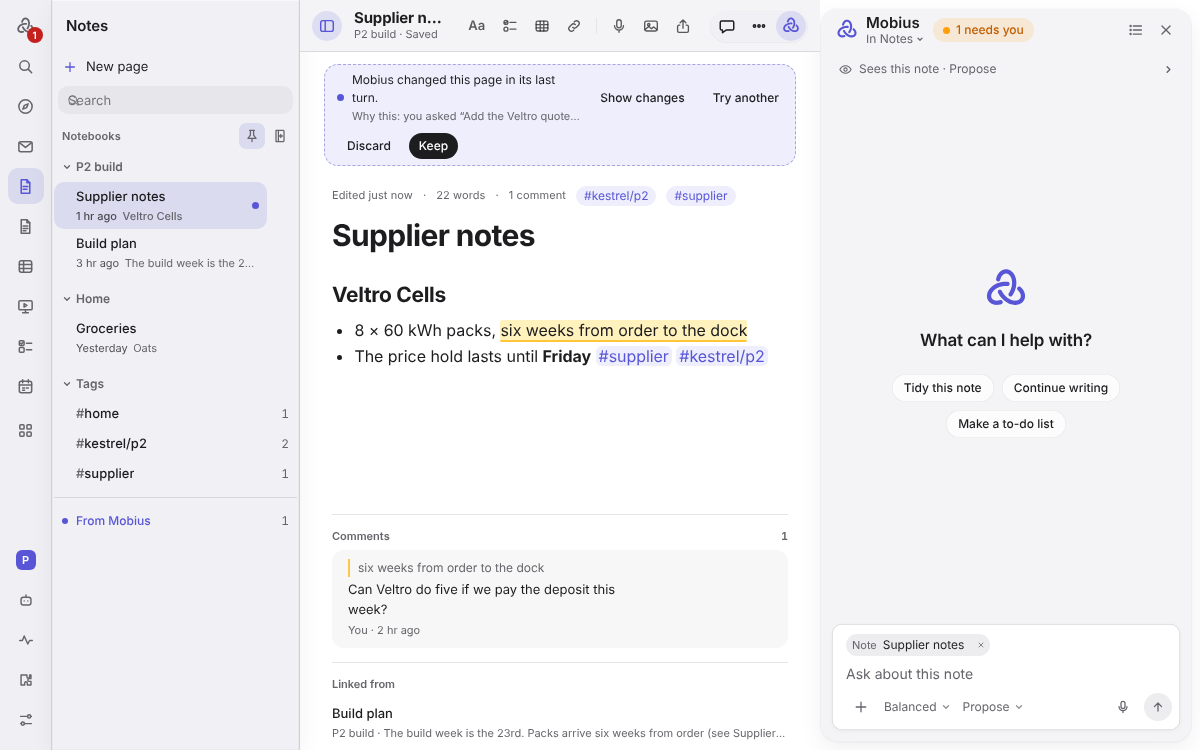
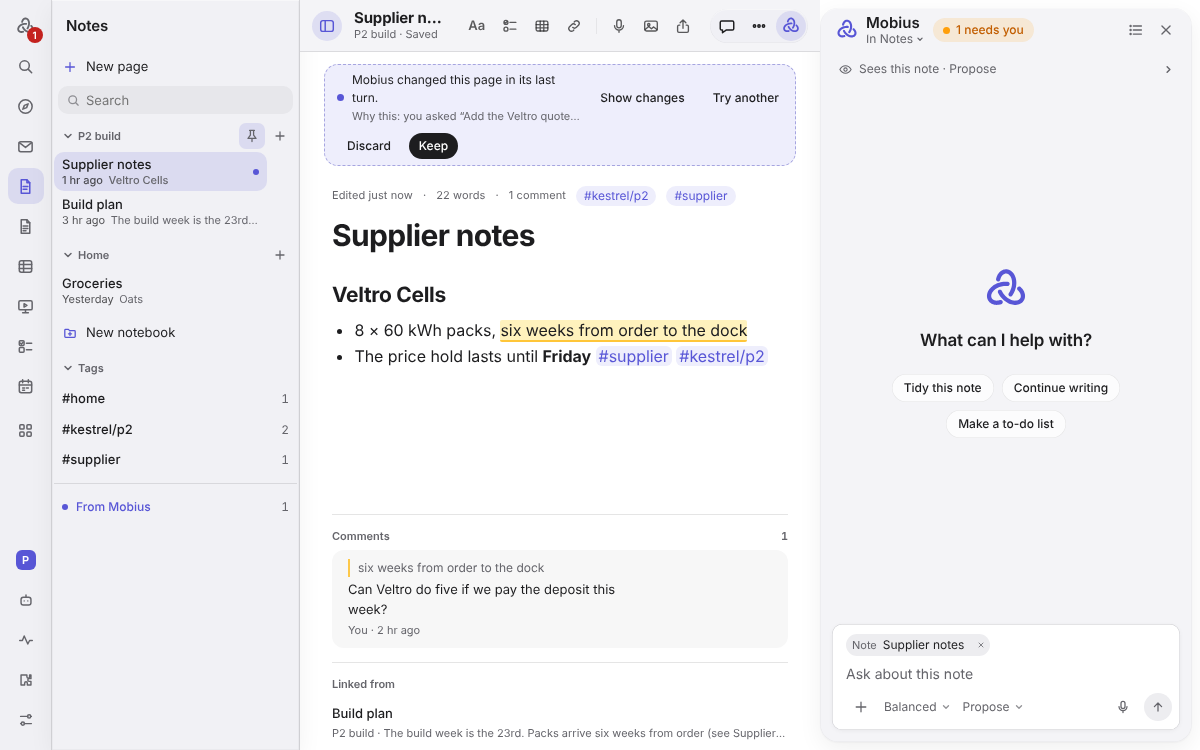
Notes sidebar: on the shared sidebar pieces, for every app that uses it (#130)
NotesSidebar (Notes, Slides, Design, Canvas, Reader, Research, Music, Views) is
now built from AppSidebar, SidebarSection and SidebarRow:

- Each notebook, Pinned and Tags is a folding SidebarSection; the attach/float pin
  sits beside the first section's name and New <page> beside each notebook's.
- Page rows are SidebarRows with their second line (when, and how it starts) and a
  trail for the hover Pin and the inline Confirm delete.
- Search results and a tag's pages are sections too (Results, #tag).
- New notebook/folder is a row under the notebooks, as in Docs.
- The old tree's CSS goes; e2e finds sections as regions.

Claude-Session: https://claude.ai/code/session_01VRGwo6hyLbLgse9wLW1PkV

Changed region(s): [[0.0308, 0.2147, 0.2158, 0.7053], [0.0617, 0.1227, 0.0925, 0.184]]

diff --git a/apps/desktop/src/NotesSidebar.tsx b/apps/desktop/src/NotesSidebar.tsx
@@ -6,10 +6,8 @@ import { relativeTime } from './relative-time';
 import type { NotesState } from './useNotes';
 import { SideNew, type Start } from './SideNew';
 import { FromMobius } from './FromMobius';
-import { RowMark } from './RowMark';
-import { createPortal } from 'react-dom';
 import { ContextMenu, type ContextMenuItem } from './ContextMenu';
-import { SidebarSearch } from './ui';
+import { AppSidebar, SidebarRow, SidebarSection, SidebarSearch } from './ui';
 
 /** Notebooks and their pages, newest first, with search. Creating asks for a name inline, never in a dialog. */
 /** `changed`: pages the agent's last turn changed, marked until it is undone or another turn ends. */
@@ -56,7 +54,6 @@ export function NotesSidebar({ notes, pin, changed, pinned, onPin, words = NOTES
   // The menus' New notebook opens the same naming field.
   useEffect(() => onCommand(words === NOTES_WORDS ? 'new-notebook' : 'new-folder', () => setNaming(true)), [words]);
   const [name, setName] = useState('');
-  const [closed, setClosed] = useState<Set<string>>(new Set());
   const [confirming, setConfirming] = useState<string | null>(null);
   const [menu, setMenu] = useState<{ x: number; y: number; page: NotePage } | null>(null);
   const openNotebook = notes.page?.path.split('/')[0] ?? notes.notebooks[0]?.name;
@@ -74,62 +71,42 @@ export function NotesSidebar({ notes, pin, changed, pinned, onPin, words = NOTES
     if (made) { setNaming(false); setName(''); await notes.createPage(made); }
   };
   const newItem = () => newItemIn(notes, openNotebook, words.defaultGroup);
-  const toggle = (nb: string) => setClosed((s) => { const n = new Set(s); if (n.has(nb)) n.delete(nb); else n.add(nb); return n; });
 
 
-  /** One page in the list: its title, how it starts and when it was edited; pin and delete on hover. `where` names its notebook. */
+  /** One page in the list: its title, then when it was edited and how it starts; Pin on hover. `where` names its notebook. */
   const pageRow = (pg: NotePage, where?: string, key = pg.path) => {
     const when = relativeTime(pg.modified, Math.max(now, pg.modified));
-    const sub = [where, when, pg.preview].filter(Boolean).join(' · ');
-    const subId = `note-sub-${key.replace(/[^\w-]/g, '_')}`;
+    const plain = [where, when, pg.preview].filter(Boolean).join(' · ');
+    // Notes: the time stands out and the preview follows it, as in Apple Notes ("1 hr ago  Veltro Cells").
+    const sub = words === NOTES_WORDS
+      ? <>{where && `${where} · `}{when && <span className="note-when">{when}</span>}{when && pg.preview ? ' ' : ''}{pg.preview}</>
+      : plain;
     return (
-      <li key={key} className="note-item" onContextMenu={(e) => { e.preventDefault(); setMenu({ x: e.clientX, y: e.clientY, page: pg }); }}>
-        <button type="button" className="note-row" data-proposed={changed?.has(pg.path) || undefined} aria-current={notes.page?.path === pg.path ? 'page' : undefined} aria-label={pg.title} aria-describedby={sub ? subId : undefined} onClick={() => void notes.open(pg.path, pg.title)}>
-          <span className="note-lines">
-            <span className="note-title">{pg.title}</span>
-            {/* Notes: the time stands out and the preview follows it, as in Apple Notes ("1 hr ago  Veltro Cells"). */}
-            {sub && (words === NOTES_WORDS
-              ? <span className="note-sub" id={subId}>{where && `${where} · `}{when && <span className="note-when">{when}</span>}{when && pg.preview ? '\u2002' : ''}{pg.preview}</span>
-              : <span className="note-sub" id={subId}>{sub}</span>)}
-          </span>
-          <RowMark changed={changed?.has(pg.path) === true} />
-        </button>
-        {onPin && <button type="button" className="note-delete note-pin" aria-pressed={pinned?.has(pg.path) ?? false} aria-label={pinned?.has(pg.path) ? `Unpin ${pg.title}` : `Pin ${pg.title} to the sidebar`} title={pinned?.has(pg.path) ? 'Unpin' : 'Pin to the top of the list and the sidebar'} onClick={() => onPin(pg.path, pg.title)}>
-          <svg viewBox="0 0 20 20" aria-hidden="true"><path d="M7 3h6M8 3v6l-3 4h10l-3-4V3M10 13v4" /></svg>
-        </button>}
-        {/* Delete is in the row's menu, not on hover; choosing it asks once more, here in the row. */}
-        {/* It goes away when focus moves to something else, not when the closing menu leaves focus nowhere. */}
-        {confirming === pg.path && (
-          <button type="button" autoFocus className="note-delete confirm" aria-label={`Confirm delete ${pg.title}`} onClick={() => { setConfirming(null); void notes.remove(pg.path); }} onBlur={(e) => { const to = e.relatedTarget as Node | null; if (to && !e.currentTarget.parentElement?.contains(to)) setConfirming(null); }} onKeyDown={(e) => { if (e.key === 'Escape') setConfirming(null); }}>Delete</button>
-        )}
-      </li>
+      <SidebarRow key={key} label={pg.title} sub={plain ? sub : undefined}
+        current={notes.page?.path === pg.path} proposed={changed?.has(pg.path) === true}
+        onSelect={() => void notes.open(pg.path, pg.title)}
+        onContextMenu={(e) => { e.preventDefault(); setMenu({ x: e.clientX, y: e.clientY, page: pg }); }}
+        trail={<>
+          {onPin && <button type="button" className="note-delete note-pin" aria-pressed={pinned?.has(pg.path) ?? false} aria-label={pinned?.has(pg.path) ? `Unpin ${pg.title}` : `Pin ${pg.title} to the sidebar`} title={pinned?.has(pg.path) ? 'Unpin' : 'Pin to the top of the list and the sidebar'} onClick={() => onPin(pg.path, pg.title)}>
+            <svg viewBox="0 0 20 20" aria-hidden="true"><path d="M7 3h6M8 3v6l-3 4h10l-3-4V3M10 13v4" /></svg>
+          </button>}
+          {/* Delete is in the row's menu, not on hover; choosing it asks once more, here in the row. It goes away when
+              focus moves to something else, not when the closing menu leaves focus nowhere. */}
+          {confirming === pg.path && (
+            <button type="button" autoFocus className="note-delete confirm" aria-label={`Confirm delete ${pg.title}`} onClick={() => { setConfirming(null); void notes.remove(pg.path); }} onBlur={(e) => { const to = e.relatedTarget as Node | null; if (to && !e.currentTarget.parentElement?.contains(to)) setConfirming(null); }} onKeyDown={(e) => { if (e.key === 'Escape') setConfirming(null); }}>Delete</button>
+          )}
+        </>} />
     );
   };
-  /** A folding section of the list (Pinned, Tags), with its rows. */
-  const section = (name: string, rows: ReactNode) => (
-    <div role="treeitem" aria-expanded={!closedSections.has(name)} aria-label={name} className="notebook notes-section">
-      <div className="notebook-head">
-        <button type="button" className="notebook-toggle" onClick={() => toggleSection(name)}>
-          <svg className="chev" viewBox="0 0 12 12" aria-hidden="true"><path d="M4.5 3 7.5 6 4.5 9" /></svg>
-          <span>{name}</span>
-        </button>
-      </div>
-      {!closedSections.has(name) && <ul role="group">{rows}</ul>}
-    </div>
-  );
+  /** A folding section of the list (Pinned, Tags, a notebook); folded ones stay folded while the app is open. */
+  const fold = (name: string) => ({ foldable: true, open: !closedSections.has(name), onToggle: () => toggleSection(name) });
+  // The button that attaches or floats the list sits beside the first section's name, as in every app.
+  const first = pinnedPages.length > 0 ? 'Pinned' : notes.notebooks[0]?.name;
+  const lead = (name: string) => (name === first ? pin : null);
 
   return (
-    <aside className="side notes-side" data-app={words === NOTES_WORDS ? 'notes' : undefined} aria-label={`${words.app} sidebar`}>
-      <div className="side-head">
-        <span className="side-title" title={words.about}>{words.groups}</span>
-        <span className="side-actions">
-          {pin}
-          <button type="button" className="strip-btn" aria-label={`New ${words.group}`} title={`New ${words.group}`} onClick={() => setNaming(true)}>
-            <svg viewBox="0 0 20 20" aria-hidden="true"><path d="M5 3h9a1 1 0 0 1 1 1v12a1 1 0 0 1-1 1H5zM8 3v14" /><path d="M11 8v4M9 10h4" /></svg>
-          </button>
-        </span>
-      </div>
-      {/* New first, then Search, then the folders: one order in every app. New goes in the folder that is open (or the first). */}
+    <AppSidebar label={`${words.app} sidebar`} className="notes-side" data-app={words === NOTES_WORDS ? 'notes' : undefined}>
+      {/* New first, then Search, then the places: one order in every app. New goes in the folder that is open (or the first). */}
       {(openNotebook || words.defaultGroup) && (
         <SideNew item={words.item} onNew={newItem} title={openNotebook ? `New ${words.item} in ${openNotebook}` : `New ${words.item}`} {...(starts ? { starts } : {})} {...(onStart ? { onStart } : {})} />
       )}
@@ -141,78 +118,67 @@ export function NotesSidebar({ notes, pin, changed, pinned, onPin, words = NOTES
         </form>
       )}
       {tag !== null && hits === null ? (
-        <div className="notes-list" role="region" aria-label={`Tagged ${tag}`}>
-          <div className="notes-tag-head">
-            <span className="note-meta-tag">#{tag}</span>
-            <span className="note-sub">{tagged.length === 1 ? `1 ${words.item}` : `${tagged.length} ${words.items}`}</span>
-            <button type="button" className="strip-btn notes-tag-clear" aria-label="Show every page" title="Show every page" onClick={() => setTag(null)}>
-              <svg viewBox="0 0 20 20" aria-hidden="true"><path d="M6 6l8 8M14 6l-8 8" /></svg>
-            </button>
-          </div>
-          <ul role="list" aria-label={`Pages tagged ${tag}`}>
-            {tagged.length === 0 && <li className="side-empty">No {words.items} have this tag now.</li>}
-            {tagged.map((pg) => pageRow(pg, pg.notebook, `tag:${pg.path}`))}
-          </ul>
-        </div>
+        <SidebarSection title={`#${tag}`} action={
+          <button type="button" className="strip-btn notes-tag-clear" aria-label={`Show every ${words.item}`} title={`Show every ${words.item}`} onClick={() => setTag(null)}>
+            <svg viewBox="0 0 20 20" aria-hidden="true"><path d="M6 6l8 8M14 6l-8 8" /></svg>
+          </button>
+        }>
+          {tagged.length === 0 && <li className="side-empty">No {words.items} have this tag now.</li>}
+          {tagged.map((pg) => pageRow(pg, pg.notebook, `tag:${pg.path}`))}
+        </SidebarSection>
       ) : hits !== null ? (
-        <ul className="notes-list" role="list" aria-label="Search results">
+        <SidebarSection title="Results">
           {hits.length === 0 && <li className="side-empty">No {words.items} match.</li>}
           {hits.map((hit) => (
-            <li key={hit.path}>
-              <button type="button" className="note-row" aria-current={notes.page?.path === hit.path ? 'page' : undefined} onClick={() => void notes.open(hit.path, hit.title)}>
-                <span className="note-title">{hit.title}</span>
-                <span className="note-sub">{hit.notebook}{hit.line ? ` — ${hit.line}` : ''}</span>
-              </button>
-            </li>
+            <SidebarRow key={hit.path} label={hit.title} sub={`${hit.notebook}${hit.line ? ` — ${hit.line}` : ''}`} current={notes.page?.path === hit.path} onSelect={() => void notes.open(hit.path, hit.title)} />
           ))}
-        </ul>
+        </SidebarSection>
       ) : (
-        <div className="notes-list" role="tree" aria-label={words.groups}>
+        <>
           {notes.notebooks.length === 0 && !naming && (
             <div className="side-empty notes-empty">
               <p>No {words.items} yet.</p>
-              <button type="button" className="btn" onClick={() => setNaming(true)}>New {words.group}</button>
             </div>
           )}
-          {pinnedPages.length > 0 && section('Pinned', pinnedPages.map((pg) => pageRow(pg, pg.notebook, `pin:${pg.path}`)))}
+          {pinnedPages.length > 0 && (
+            <SidebarSection title="Pinned" action={lead('Pinned')} {...fold('Pinned')}>
+              {pinnedPages.map((pg) => pageRow(pg, pg.notebook, `pin:${pg.path}`))}
+            </SidebarSection>
+          )}
           {notes.notebooks.map((nb) => (
-            <div key={nb.name} role="treeitem" aria-expanded={!closed.has(nb.name)} aria-label={nb.name} className="notebook">
-              <div className="notebook-head">
-                <button type="button" className="notebook-toggle" onClick={() => toggle(nb.name)}>
-                  <svg className="chev" viewBox="0 0 12 12" aria-hidden="true"><path d="M4.5 3 7.5 6 4.5 9" /></svg>
-                  <span>{nb.name}</span>
-                </button>
-                <button type="button" className="strip-btn notebook-add" aria-label={`New ${words.item} in ${nb.name}`} title={`New ${words.item}`} onClick={() => void notes.createPage(nb.name)}>
-                  <svg viewBox="0 0 20 20" aria-hidden="true"><path d="M10 5v10M5 10h10" /></svg>
-                </button>
-              </div>
-              {!closed.has(nb.name) && (
-                <ul role="group">
-                  {nb.pages.length === 0 && <li className="side-empty">No {words.items} yet.</li>}
-                  {nb.pages.map((pg) => pageRow(pg))}
-                </ul>
-              )}
-            </div>
-          ))}
-          {tagList.length > 0 && section('Tags', tagList.map((t) => (
-            <li key={t.tag} className="note-item">
-              <button type="button" className="note-row notes-tag-row" aria-label={`#${t.tag}, ${t.count === 1 ? `1 ${words.item}` : `${t.count} ${words.items}`}`} onClick={() => { setQuery(''); setTag(t.tag); }}>
-                <span className="note-title">#{t.tag}</span>
-                <span className="note-count" aria-hidden="true">{t.count}</span>
+            <SidebarSection key={nb.name} title={nb.name} {...fold(`notebook:${nb.name}`)} action={<>
+              {lead(nb.name)}
+              <button type="button" className="strip-btn" aria-label={`New ${words.item} in ${nb.name}`} title={`New ${words.item}`} onClick={() => void notes.createPage(nb.name)}>
+                <svg viewBox="0 0 20 20" aria-hidden="true"><path d="M10 5v10M5 10h10" /></svg>
               </button>
-            </li>
-          )))}
+            </>}>
+              {nb.pages.length === 0 && <li className="side-empty">No {words.items} yet.</li>}
+              {nb.pages.map((pg) => pageRow(pg))}
+            </SidebarSection>
+          ))}
+          {!naming && (
+            <button type="button" className="side-new-row notes-new-group" title={words.about} onClick={() => setNaming(true)}>
+              <svg viewBox="0 0 20 20" aria-hidden="true"><path d="M3.5 6.5a1 1 0 0 1 1-1h3.5l1.5 1.5h6a1 1 0 0 1 1 1v6.5a1 1 0 0 1-1 1h-11a1 1 0 0 1-1-1z" /><path d="M10 9v4M8 11h4" /></svg>
+              <span>New {words.group}</span>
+            </button>
+          )}
+          {tagList.length > 0 && (
+            <SidebarSection title="Tags" {...fold('Tags')}>
+              {tagList.map((t) => (
+                <SidebarRow key={t.tag} label={`#${t.tag}`} count={t.count} title={t.count === 1 ? `1 ${words.item}` : `${t.count} ${words.items}`} onSelect={() => { setQuery(''); setTag(t.tag); }} />
+              ))}
+            </SidebarSection>
+          )}
           <FromMobius items={notes.notebooks.flatMap((nb) => nb.pages.filter((pg) => changed?.has(pg.path)).map((pg) => ({ key: pg.path, name: pg.title, where: nb.name, current: notes.page?.path === pg.path, onOpen: () => void notes.open(pg.path, pg.title) })))} />
-        </div>
+        </>
       )}
-      {menu && createPortal(
+      {menu && (
         <ContextMenu x={menu.x} y={menu.y} label={menu.page.title} onClose={() => setMenu(null)} items={([
           { action: 'open', run: () => void notes.open(menu.page.path, menu.page.title) },
           ...(onPin ? [{ action: pinned?.has(menu.page.path) ? 'unpin' : 'pin', run: () => onPin(menu.page.path, menu.page.title) }] : []),
           { action: 'delete', label: `Delete ${words.item}…`, danger: true, run: () => setConfirming(menu.page.path) },
-        ] as ContextMenuItem[])} />,
-        document.body,
+        ] as ContextMenuItem[])} />
       )}
-    </aside>
+    </AppSidebar>
   );
 }

diff --git a/apps/desktop/src/styles.css b/apps/desktop/src/styles.css
@@ -456,30 +456,21 @@ html[data-density='compact'] .dl-item { padding: 3px 8px; }
 @media (prefers-reduced-motion: reduce) { .group-toggle .chev { transition: none; } }
 
 /* Notes */
-.notes-side .notes-list { flex: 1; min-height: 0; overflow: auto; padding-bottom: var(--sp-3); }
 .notes-name { display: flex; gap: var(--sp-2); margin: 0 var(--sp-2) var(--sp-2); }
 .notes-name input { flex: 1; min-width: 0; height: var(--control-h); padding: 0 var(--sp-2); border: 1px solid var(--line); border-radius: var(--radius-control); background: var(--bg); }
 .notes-empty { display: grid; gap: var(--sp-3); color: var(--muted); line-height: var(--lh-body); }
 .notes-empty p { margin: 0; }
 .notes-empty .btn { justify-self: start; }
-.notebook-head { display: flex; align-items: center; }
 .notebook-toggle { flex: 1; min-width: 0; display: flex; align-items: center; gap: var(--sp-1); height: 30px; padding: 0 var(--sp-2); font-size: var(--fs-sm); font-weight: var(--fw-semibold); color: var(--muted); text-align: left; }
 .notebook-toggle .chev { width: 10px; height: 10px; fill: none; stroke: currentColor; stroke-width: 1.6; transition: transform var(--dur-fast) var(--ease); }
-.notebook[aria-expanded="true"] > .notebook-head .chev { transform: rotate(90deg); }
-.notebook-add { opacity: 0; }
-.notebook-head:hover .notebook-add, .notebook-add:focus-visible { opacity: 1; }
-.notebook ul { list-style: none; margin: 0 0 var(--sp-2); padding: 0; }
-.note-item { display: flex; align-items: center; border-radius: var(--radius-control); }
-.note-item:hover { background: color-mix(in srgb, var(--soft) 60%, transparent); }
 .note-row { flex: 1; min-width: 0; display: grid; gap: 2px; padding: 7px var(--sp-2) 7px 22px; text-align: left; border-radius: var(--radius-control); }
-.notes-list[aria-label="Search results"] .note-row { padding-left: var(--sp-2); }
 .note-row[aria-current="page"] { background: var(--soft); }
 .note-row[aria-current="page"] .note-title { font-weight: var(--fw-medium); }
 .note-title { overflow: hidden; text-overflow: ellipsis; white-space: nowrap; }
 .note-sub { overflow: hidden; text-overflow: ellipsis; white-space: nowrap; font-size: var(--fs-xs); color: var(--muted); }
 .note-delete { flex: none; height: 26px; min-width: 26px; margin-right: var(--sp-1); display: grid; place-items: center; color: var(--muted); opacity: 0; border-radius: var(--radius-control); }
 .note-delete svg { width: 14px; height: 14px; fill: none; stroke: currentColor; stroke-width: 1.5; }
-.note-item:hover .note-delete, .note-delete:focus-visible, .note-delete.confirm { opacity: 1; }
+.note-delete:focus-visible, .note-delete.confirm { opacity: 1; }
 .note-delete.confirm { padding: 0 var(--sp-2); background: var(--danger); color: var(--on-accent); font-size: var(--fs-sm); }
 .stage .note-editor { position: absolute; z-index: 1; inset: 0; display: flex; flex-direction: column; background: var(--bg); }
 .note-editor.empty { display: grid; place-items: center; }
@@ -840,7 +831,7 @@ html[data-density='compact'] .dl-item { padding: 3px 8px; }
 .rail-btn[aria-current="page"] { color: var(--accent); }
 /* Mobius's own apps: the same tiles, in Mobius's indigo. */
 
-.tab, .tab-main, .note-row, .note-item, .list-row, .clist-item, .clist-main { border-radius: var(--radius-control); }
+.tab, .tab-main, .note-row, .list-row, .clist-item, .clist-main { border-radius: var(--radius-control); }
 .tab[aria-current="page"], .note-row[aria-current="page"], .list-row[aria-current="page"] { background: color-mix(in srgb, var(--ink) 8%, transparent); }
 .clist-item[data-current] { background: color-mix(in srgb, var(--accent) 12%, transparent); }
 
@@ -2071,15 +2062,8 @@ li:hover > .list-pin, .list-pin:focus-visible { opacity: 1; }
 .hub-icon[data-app="wiki"], .launcher-icon svg[data-app="wiki"], .review-filter svg[data-app="wiki"] { background: var(--app-wiki); }
 
 /* Notes' list: each page with how it starts; Pinned and Tags fold like notebooks; a tag lists its pages. */
-.note-lines { flex: 1; min-width: 0; display: grid; gap: 1px; }
-.notes-section .note-row, .notes-tag-row { padding-left: 22px; }
-.notes-tag-row .note-title { color: var(--accent); }
 .note-count { margin-left: auto; font-size: var(--fs-xs); color: var(--muted); font-variant-numeric: tabular-nums; }
-.notes-tag-head { display: flex; align-items: center; gap: 8px; padding: 4px var(--sp-2) 6px; }
-.notes-tag-head .note-meta-tag { display: inline-flex; align-items: center; }
 .notes-tag-clear { margin-left: auto; }
-.notes-list[role="region"] ul { list-style: none; margin: 0; padding: 0; }
-.notes-list[role="region"] .note-row { padding-left: var(--sp-2); }
 
 /* Projects: a place, with its cards. */
 .hub-icon[data-app="projects"], .launcher-icon svg[data-app="projects"], .review-filter svg[data-app="projects"] { background: var(--app-projects); }
@@ -2295,8 +2279,6 @@ li:hover > .list-pin, .list-pin:focus-visible { opacity: 1; }
 .dock.left .side > .side-search { order: -1; }
 .dock.left .side > .side-new { order: -2; }
 /* Tag rows: the label's own colour, with a grey #; the accent is only for selection. */
-.notes-tag-row .note-title { color: var(--ink); }
-.notes-tag-row .note-title::first-letter { color: var(--muted); }
 
 /* Comments: a speech-bubble button with the count of open threads, a dashed ring in comment mode, pins shaped as
    speech bubbles (indigo open or sent, yellow a note, grey with a check resolved), and a small card beside each. */
@@ -2608,8 +2590,6 @@ input:not([type="checkbox"], [type="radio"], [type="range"], [type="color"]):foc
    from the app's name. */
 
 /* A search result is two lines (the page, then where and the line that matched), each cut short rather than widening the sidebar. */
-.notes-list[aria-label="Search results"] .note-row { display: grid; justify-items: start; }
-.notes-list[aria-label="Search results"] :is(.note-title, .note-sub) { max-width: 100%; min-width: 0; overflow: hidden; text-overflow: ellipsis; white-space: nowrap; }
 
 /* Abilities, Apps: every app by what it is for, each with Add or Remove. */
 .ability-apps { display: grid; gap: 20px; max-width: 640px; }

diff --git a/apps/desktop/e2e/notes.spec.ts b/apps/desktop/e2e/notes.spec.ts
@@ -90,7 +90,7 @@ test('pages survive a restart, search finds them, and a deleted page is gone fro
   await expect(text().locator('h1')).toHaveText('Garden');
   await expect(text().locator('li')).toHaveText(['tomatoes']);
   await side().getByRole('searchbox', { name: 'Search notes' }).fill('oat');
-  const results = side().getByRole('list', { name: 'Search results' });
+  const results = side().getByRole('region', { name: 'Results' });
   await expect(results.getByRole('button')).toHaveCount(1);
   await results.getByRole('button', { name: /Groceries/ }).click();
   await expect(text().locator('h1')).toHaveText('Groceries');
@@ -184,22 +184,22 @@ test('#tags in pages show under Tags, and a tag lists the pages that carry it', 
   fs.writeFileSync(file('Work', 'Motors.md'), '# Motors\n\nAxion quote #Supplier\n');
   fs.writeFileSync(file('Home', 'Garden.md'), '# Garden\n\nTomatoes, not a #2 tag.\n');
   await start();
-  const tags = side().getByRole('treeitem', { name: 'Tags' });
+  const tags = side().getByRole('region', { name: 'Tags' });
   // The section's rows (not its fold button); a tag written in two cases is one tag, with its first spelling.
-  await expect(tags.getByRole('group').getByRole('button')).toHaveText(['#kestrel/p21', /^#supplier2$/i]);
+  await expect(tags.getByRole('list').getByRole('button')).toHaveText(['#kestrel/p21', /^#supplier2$/i]);
   // Each row says how its page starts.
   await expect(side().getByRole('button', { name: 'Packs', exact: true })).toContainText('Veltro holds the price');
-  await tags.getByRole('button', { name: /^#supplier, 2 pages$/i }).click();
-  const tagged = side().getByRole('list', { name: /^Pages tagged supplier$/i });
+  await tags.getByRole('button', { name: /^#supplier/i }).click();
+  const tagged = side().getByRole('region', { name: /^#supplier$/i });
   // One row per page (each row also has its pin and delete buttons).
   await expect(tagged.getByRole('listitem')).toHaveCount(2);
   await tagged.getByRole('button', { name: 'Packs', exact: true }).click();
   // The tags are marked in the page, and listed under its title.
   await expect(text().locator('.note-tag')).toHaveText(['#supplier', '#kestrel/p2']);
   await shell().locator('.note-meta').getByRole('button', { name: '#kestrel/p2' }).click();
-  await expect(side().getByRole('list', { name: 'Pages tagged kestrel/p2' }).getByRole('listitem')).toHaveCount(1);
+  await expect(side().getByRole('region', { name: '#kestrel/p2' }).getByRole('listitem')).toHaveCount(1);
   await side().getByRole('button', { name: 'Show every page' }).click();
-  await expect(side().getByRole('treeitem', { name: 'Work' })).toBeVisible();
+  await expect(side().getByRole('region', { name: 'Work' })).toBeVisible();
 });
 
 test('the Markdown view shows the file as it is kept, and typing there is saved', async () => {
@@ -224,13 +224,13 @@ test('a pinned page is listed first, under Pinned, as well as in its notebook', 
   fs.writeFileSync(file('Work', 'Packs.md'), '# Packs\n');
   fs.writeFileSync(file('Work', 'Motors.md'), '# Motors\n');
   await start();
-  await expect(side().getByRole('treeitem', { name: 'Pinned' })).toHaveCount(0);
+  await expect(side().getByRole('region', { name: 'Pinned' })).toHaveCount(0);
   await side().getByRole('button', { name: 'Pin Motors to the sidebar' }).click();
-  const pinned = side().getByRole('treeitem', { name: 'Pinned' });
+  const pinned = side().getByRole('region', { name: 'Pinned' });
   await expect(pinned.getByRole('button', { name: 'Motors', exact: true })).toBeVisible();
-  await expect(side().getByRole('treeitem', { name: 'Work' }).getByRole('button', { name: 'Motors', exact: true })).toBeVisible();
+  await expect(side().getByRole('region', { name: 'Work' }).getByRole('button', { name: 'Motors', exact: true })).toBeVisible();
   await pinned.getByRole('button', { name: 'Unpin Motors' }).click();
-  await expect(side().getByRole('treeitem', { name: 'Pinned' })).toHaveCount(0);
+  await expect(side().getByRole('region', { name: 'Pinned' })).toHaveCount(0);
 });
 
 test('History shows what the page was, compared with now, and Restore puts it back (and Undo undoes that)', async () => {

diff --git a/apps/desktop/src/notes.css b/apps/desktop/src/notes.css
@@ -177,5 +177,9 @@
 .note-aa-group .doc-tool[aria-pressed="true"] { color: var(--accent); background: var(--bg); box-shadow: 0 1px 2px rgba(0, 0, 0, 0.12); }
 
 /* The note list, as in Apple Notes: the title, then the time in ink and the first line in grey. */
-.notes-side[data-app="notes"] .note-title { font-weight: var(--fw-medium); }
+.notes-side[data-app="notes"] .ui-side-name { font-weight: var(--fw-medium); }
+/* A row with its second line gets room to breathe; Pin and the inline Delete sit at its end, Pin only on hover. */
+.dock .side.notes-side .list-row:has(.ui-side-sub) { padding-block: var(--sp-1); line-height: 1.3; }
+.notes-side .ui-side-row-trail:hover > .note-delete, .notes-side .ui-side-row-trail > .note-delete:focus-visible { opacity: 1; }
+.notes-side .ui-side-section + .ui-side-section, .notes-side .notes-new-group { margin-top: var(--sp-2); }
 .notes-side[data-app="notes"] .note-when { color: color-mix(in srgb, var(--ink) 78%, transparent); }

diff --git a/apps/desktop/e2e/slides.spec.ts b/apps/desktop/e2e/slides.spec.ts
@@ -39,7 +39,7 @@ async function start(replies: ModelReply[] = []): Promise<void> {
   await shell().keyboard.press('Control+k');
   await shell().getByRole('combobox', { name: 'Find apps, pages and commands' }).fill('Slides');
   await shell().keyboard.press('Enter');
-  await shell().getByRole('tree', { name: 'Folders' }).getByRole('button', { name: 'Offsite kickoff', exact: true }).click();
+  await shell().getByRole('complementary', { name: 'Slides sidebar' }).getByRole('button', { name: 'Offsite kickoff', exact: true }).click();
   await expect(nav().getByRole('button')).toHaveCount(2);
 }
 

diff --git a/docs/apps/write-and-plan.md b/docs/apps/write-and-plan.md
@@ -6,8 +6,8 @@ Quick pages, saved as you type.
 
 ![The Notes app in Mobius](../readme/apps/notes.png)
 
-- **Notebooks** in the sidebar, newest pages first, each row showing when it was edited and how it starts, with search, **Pinned** pages at the top and a **Tags** section
-  built from every `#tag` you write.
+- **Notebooks** in the sidebar, each one folding away, newest pages first, each row showing when it was edited and how it starts, with search, **Pinned** pages at the top,
+  **New notebook** under the notebooks and a **Tags** section built from every `#tag` you write.
 - **Formatted as you write**: headings, lists, checklists you tick, tables, pictures, links between notes, and
   recordings (up to ten minutes). As in Apple Notes, **Aa** opens the text styles (Title, Heading, Subheading, Body),
   bold, italic, strikethrough, code, lists and quote. These sit in the window's toolbar beside Checklist, Table, Link,
